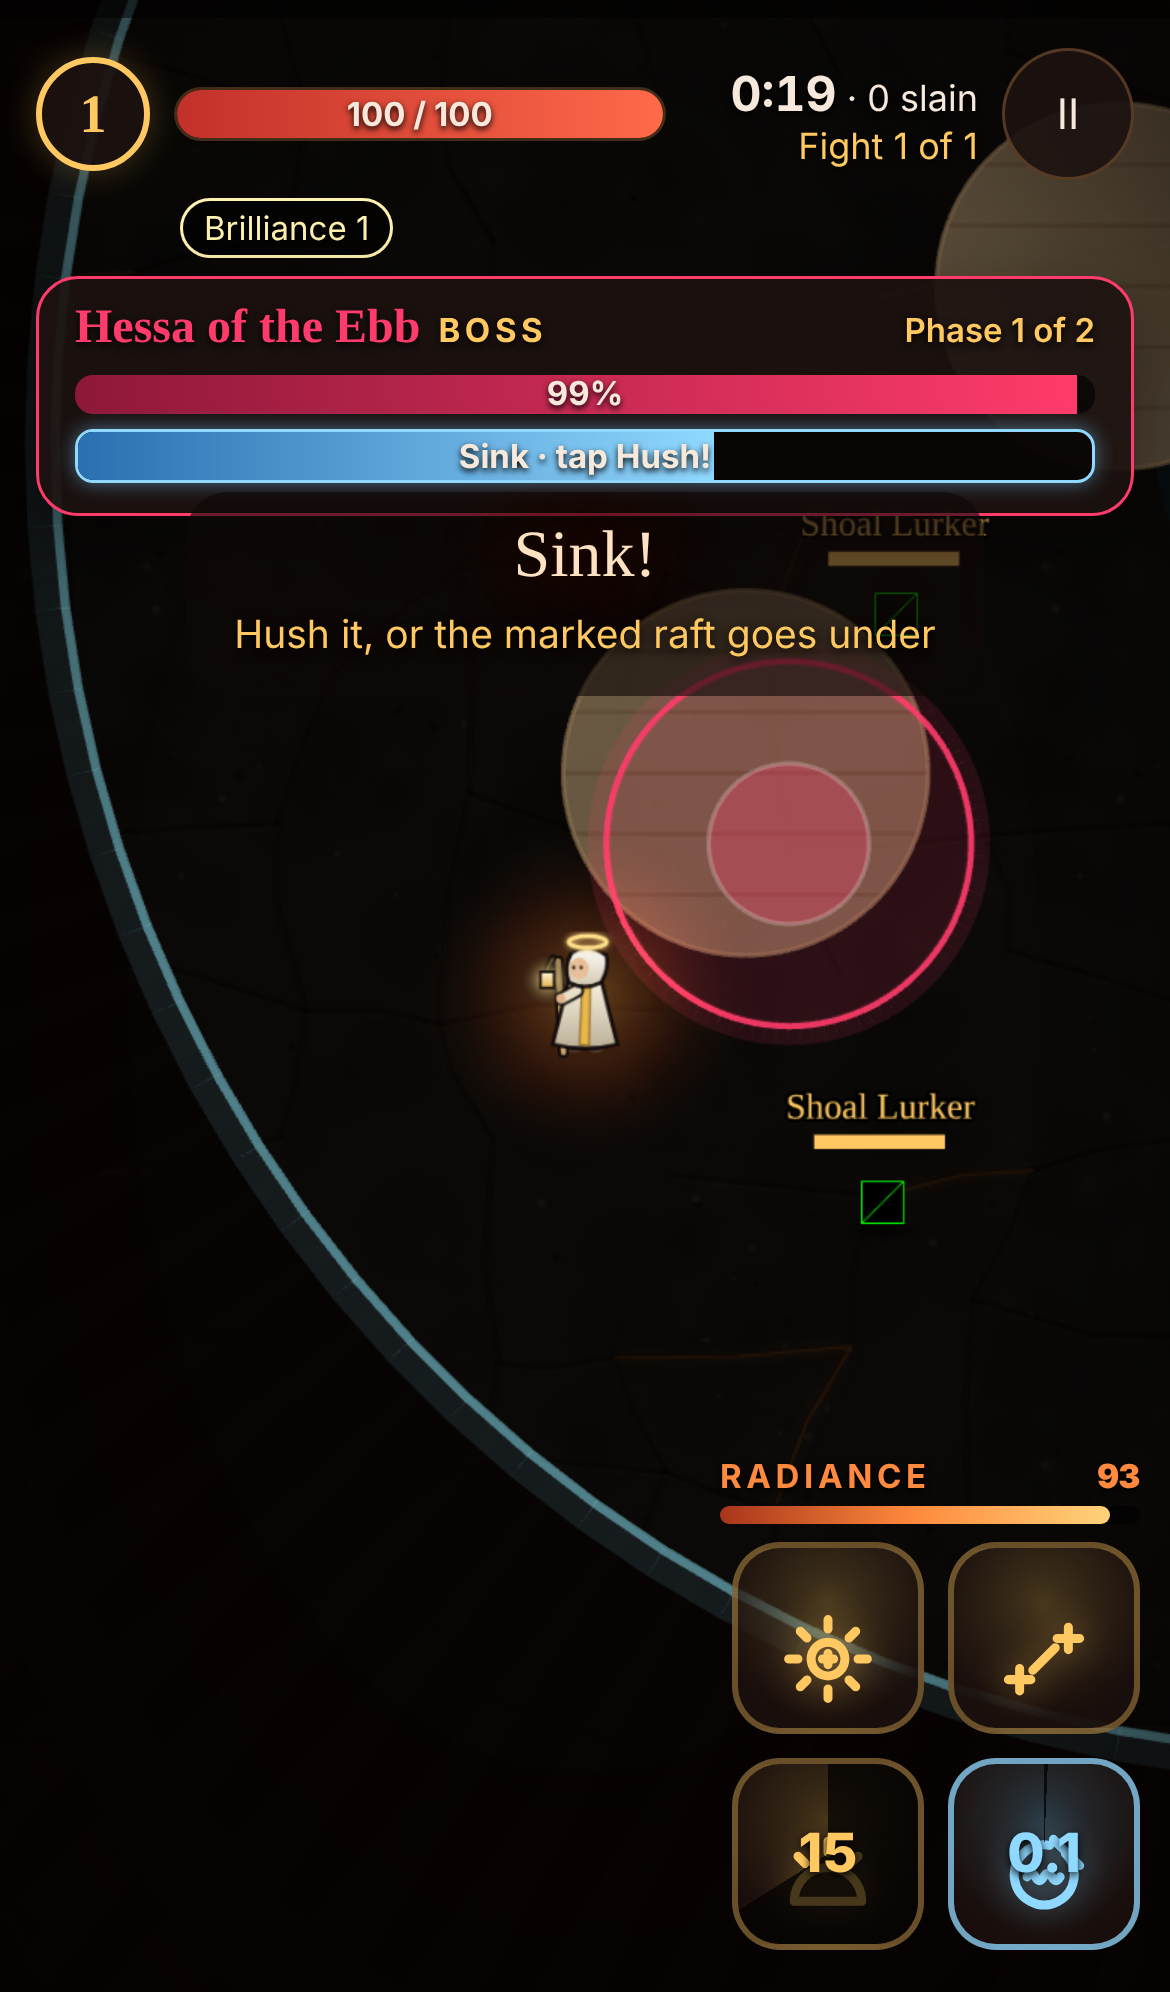
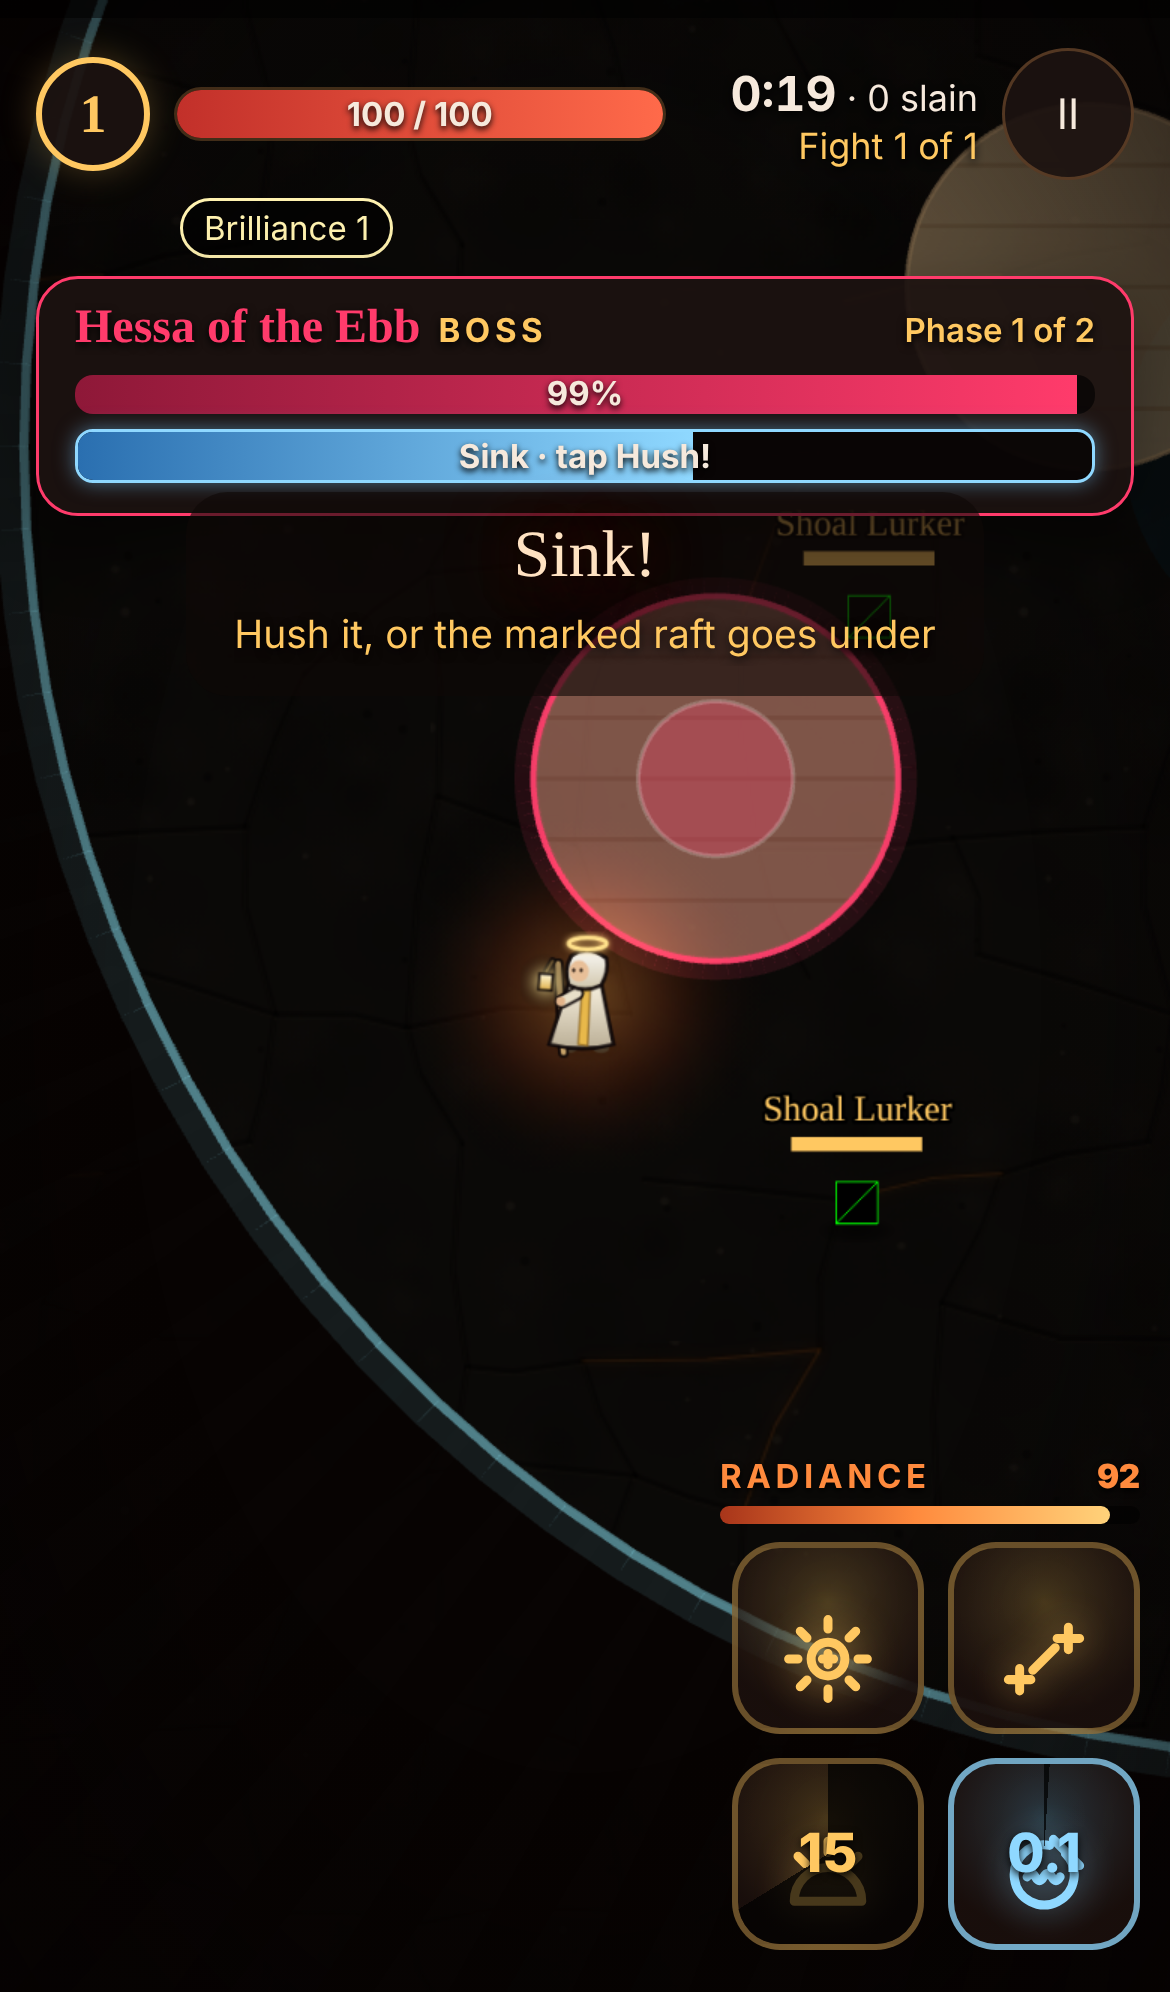
Wrackline: Sink's circle rides along with the raft it marked
Claude-Session: https://claude.ai/code/session_012zrft6Arfax5T4DTeyjNtp

diff --git a/sim/world.ts b/sim/world.ts
@@ -4854,6 +4854,11 @@ export class World {
       for (let n = 0; n < WRACK.shoalN; n++) this.spawnAtRing('shoalLurker', 420);
       this.events.push({ type: 'castStart', index: i, id: 'shoalCall', name: 'Call the Shoal' });
     }
+    // Sink's circle rides along with the raft it marked.
+    if (e.castId === 'sink') {
+      const r = this.rafts[e.aux | 0];
+      if (r) for (const t of this.telegraphs) if (t.alive && t.owner === i) { t.x = r.x; t.y = r.y; }
+    }
     if (e.castId || e.stunT > 0) return;
     if (this.sinkT <= 0) {
       // Sink the afloat raft nearest her target, so the hero has to find another.
